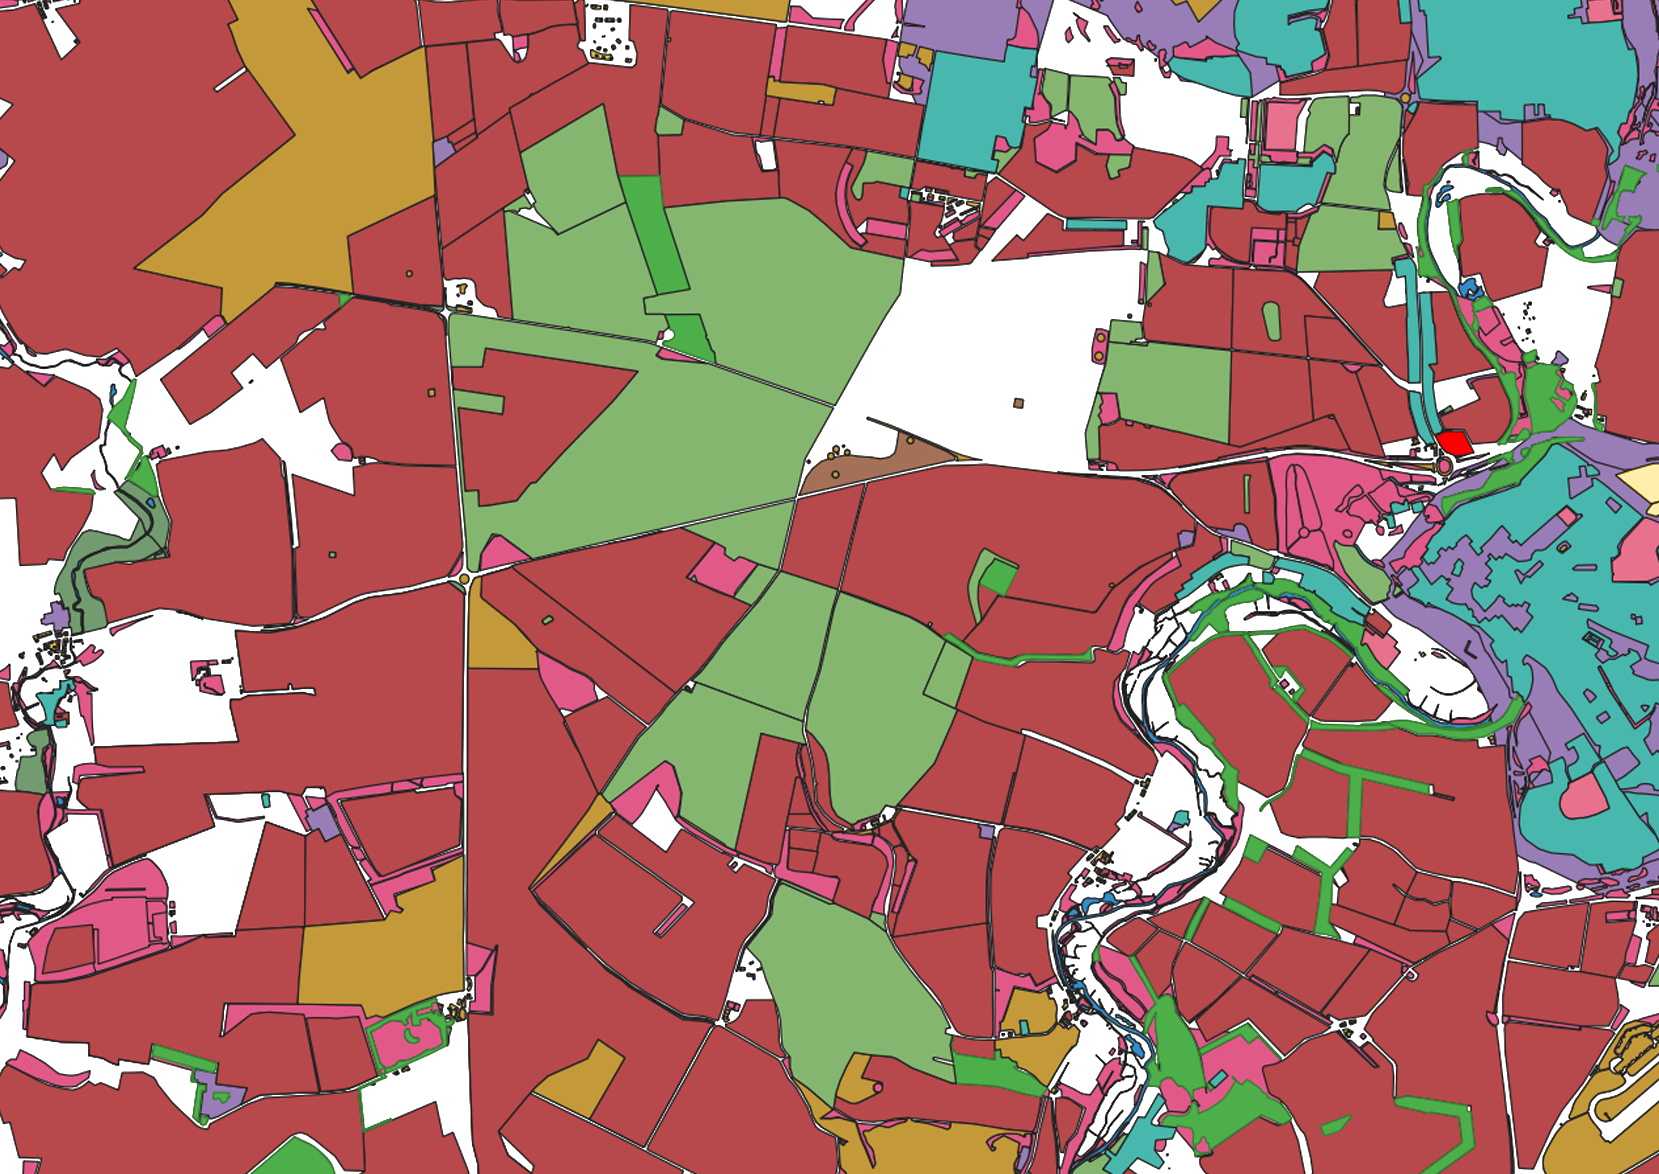
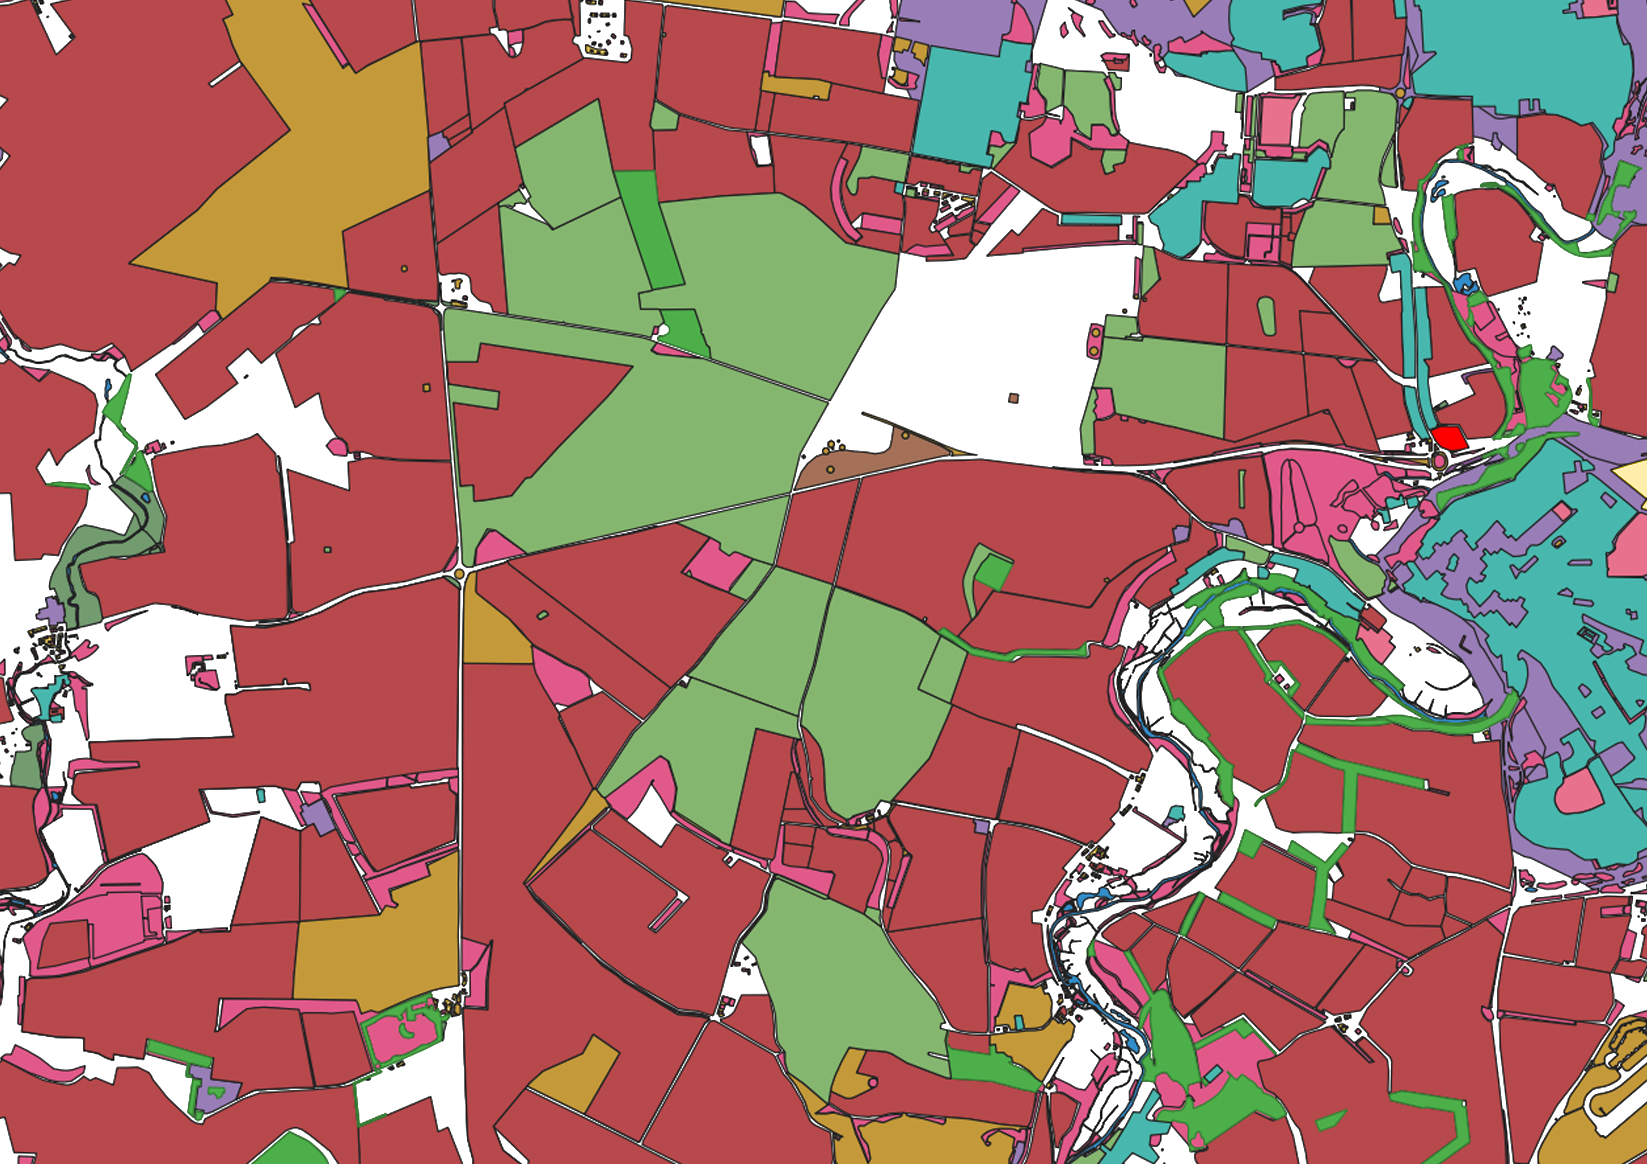
WEB-101 bw

diff --git a/src/lib/case_study_cards/StonehengeMap.svelte b/src/lib/case_study_cards/StonehengeMap.svelte
@@ -9,7 +9,7 @@
 			label: 'Terrain'
 		},
 		{
-			img: '/images/A303Roads.png',
+			img: '/images/A303Roads_BW.png',
 			label: 'Roads'
 		},
 		{
@@ -21,11 +21,11 @@
 			label: 'Land'
 		},
 		{
-			img: '/images/A303Trees.png',
+			img: '/images/A303Trees_BW.png',
 			label: 'Trees'
 		},
 		{
-			img: '/images/A303NewRoads.png',
+			img: '/images/A303NewRoads_BW.png',
 			label: 'New road'
 		}
 	];
@@ -54,10 +54,11 @@
 <CaseStudyCard border={false}>
 	<div class="container">
 		<div class="map">
-			<div class="map-layer" style:background-image={`url(/images/A303Base.png)`} />
+			<div class="map-layer" style:background-image={`url(/images/A303Base_BW.png)`} />
+			<div class="map-layer solid-color" />
 			{#each layers as { img }, i (i)}
 				<div
-					class="map-layer"
+					class="map-layer tinted"
 					class:hidden={i !== currentLayer}
 					style:background-image={`url(${img})`}
 				/>
@@ -105,6 +106,14 @@
 		transition: opacity 1s ease-in-out;
 		background-size: cover;
 		background-position: center center;
+	}
+
+	.tinted {
+		filter: sepia(100%) hue-rotate(159deg);
+	}
+
+	.solid-color {
+		background-color: color-mix(in srgb, var(--color-background), transparent 30%);
 	}
 
 	.map-layer.hidden {
